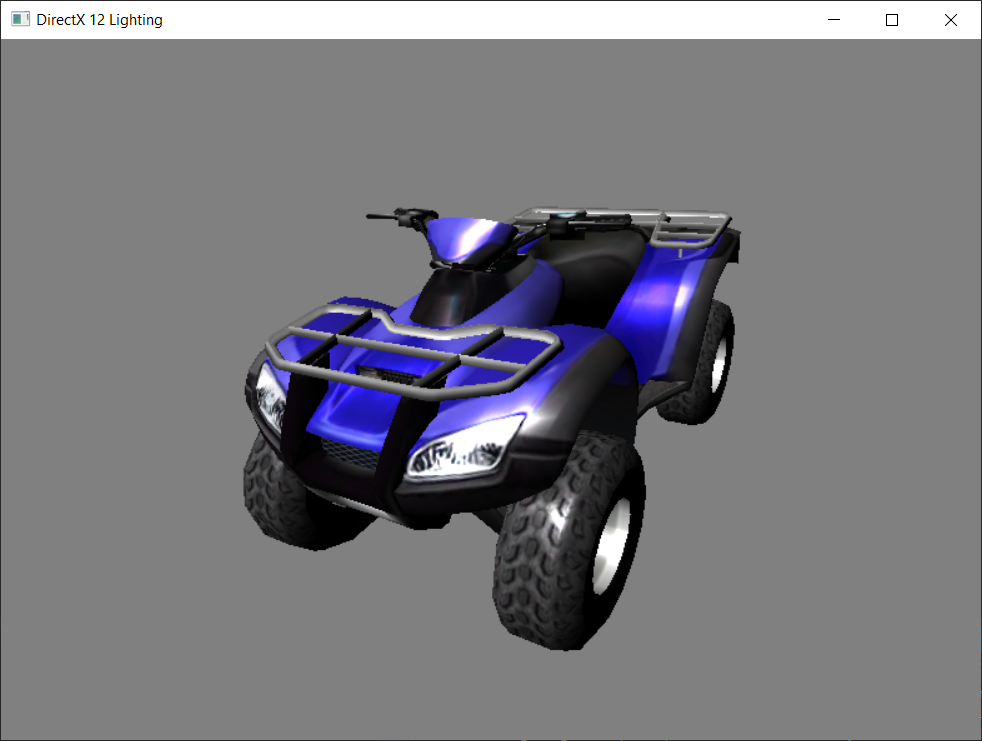
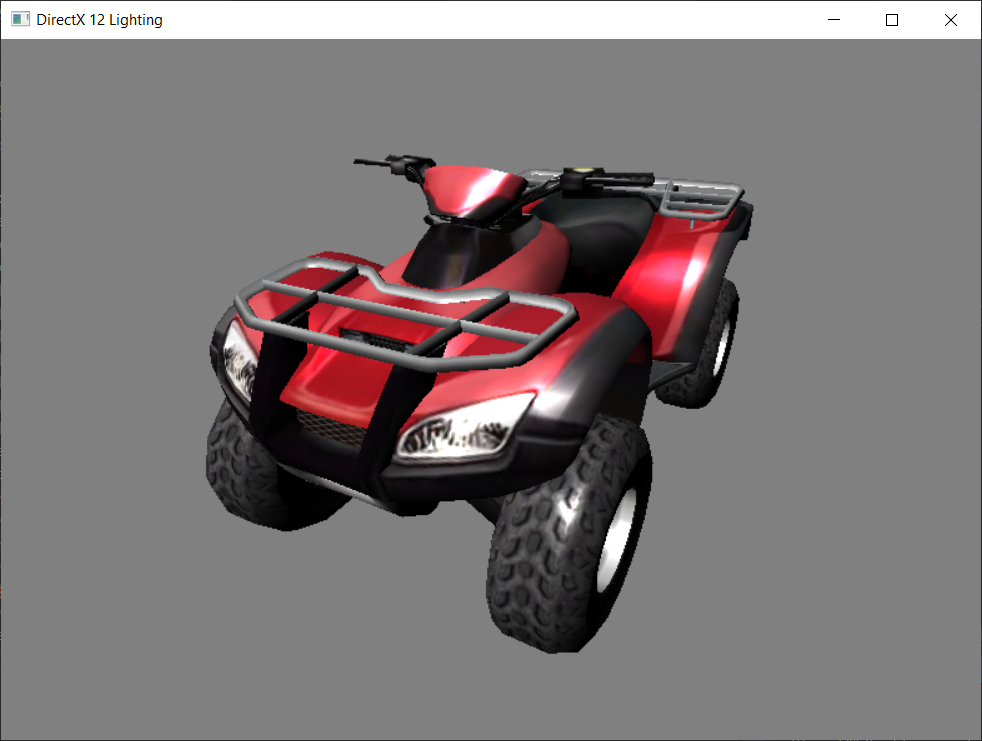
Fixed texture colors.

Changed region(s): [[0.1833, 0.1862, 0.7637, 0.8691], [0.5499, 0.8691, 0.5804, 0.9001]]

diff --git a/DirectX12Lighting/Engine.cpp b/DirectX12Lighting/Engine.cpp
@@ -264,7 +264,7 @@ void Engine::LoadTextures()
 	textureDesc.Height = textureHeight;
 	textureDesc.DepthOrArraySize = 1;
 	textureDesc.MipLevels = 1;
-	textureDesc.Format = DXGI_FORMAT_R8G8B8A8_UNORM;
+	textureDesc.Format = DXGI_FORMAT_B8G8R8A8_UNORM;
 	textureDesc.SampleDesc.Count = 1;
 	textureDesc.SampleDesc.Quality = 0;
 	textureDesc.Layout = D3D12_TEXTURE_LAYOUT_UNKNOWN;
